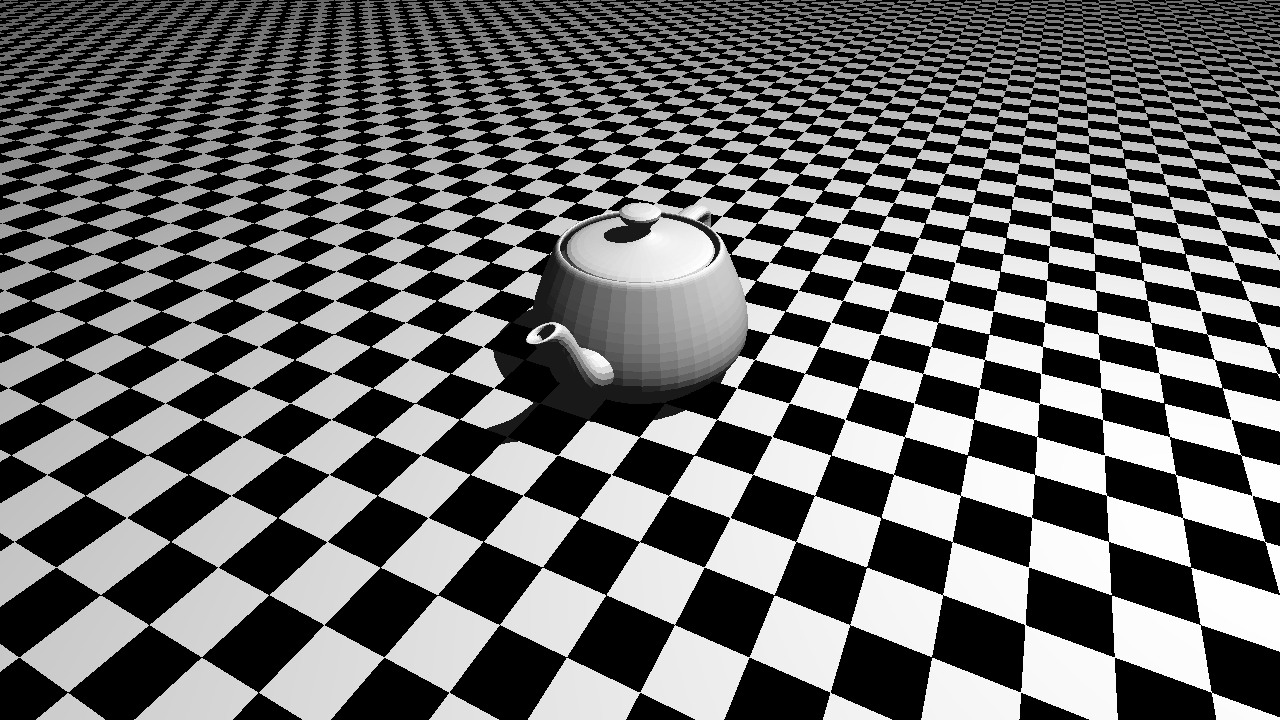
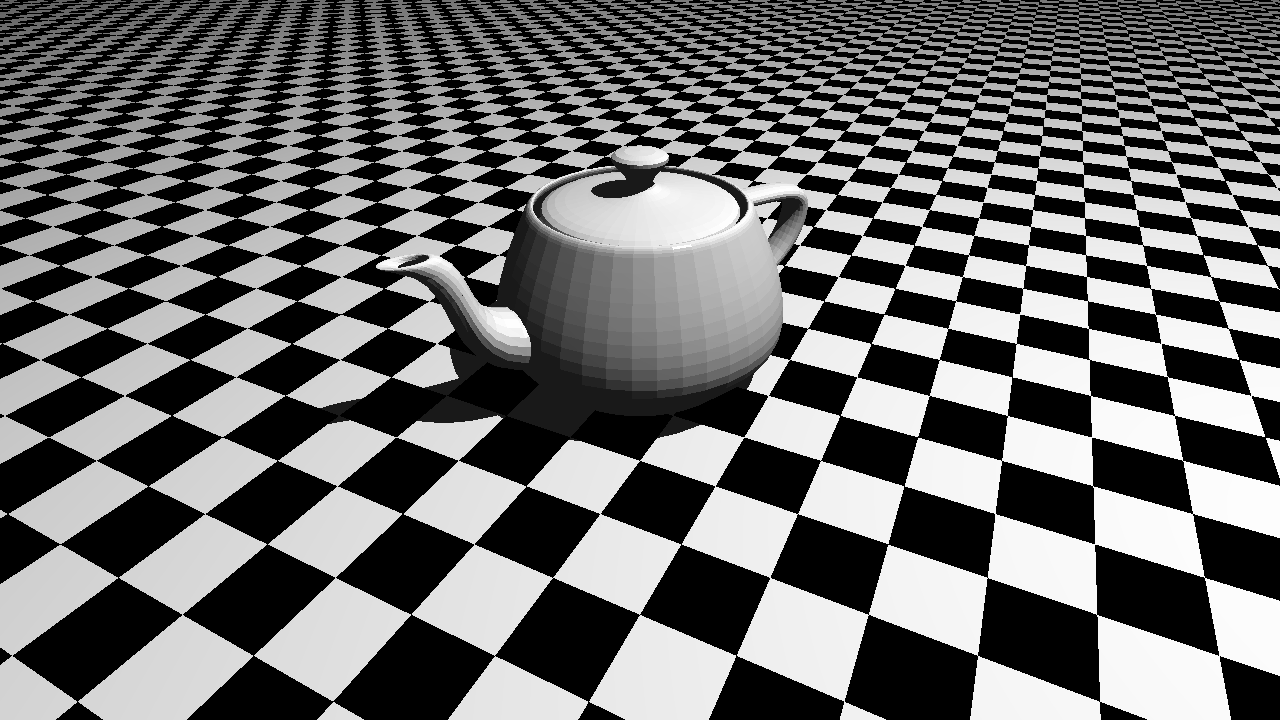
Chapter 15 - Teapot - rotate

diff --git a/demo-lib/src/test_scenes/teapot.rs b/demo-lib/src/test_scenes/teapot.rs
@@ -111,6 +111,7 @@ impl TestScene for Teapot {
         }
 
         let teapot = scene!(
+            matrix: Matrix4x4::rotation_y(degrees!(30));
             +teapot;
         );
 
@@ -132,7 +133,7 @@ impl TestScene for Teapot {
     fn build_camera(size: Size) -> Camera {
         let mut camera = Camera::new(size, degrees!(45));
         camera.set_transform(
-            ViewMatrix::new_look_at(point!(10, 8, 5), point!(0, 0, 0), vector!(0, 1, 0)).into(),
+            ViewMatrix::new_look_at(point!(8, 6, 4), point!(0, 0, 0), vector!(0, 1, 0)).into(),
         );
         camera
     }
